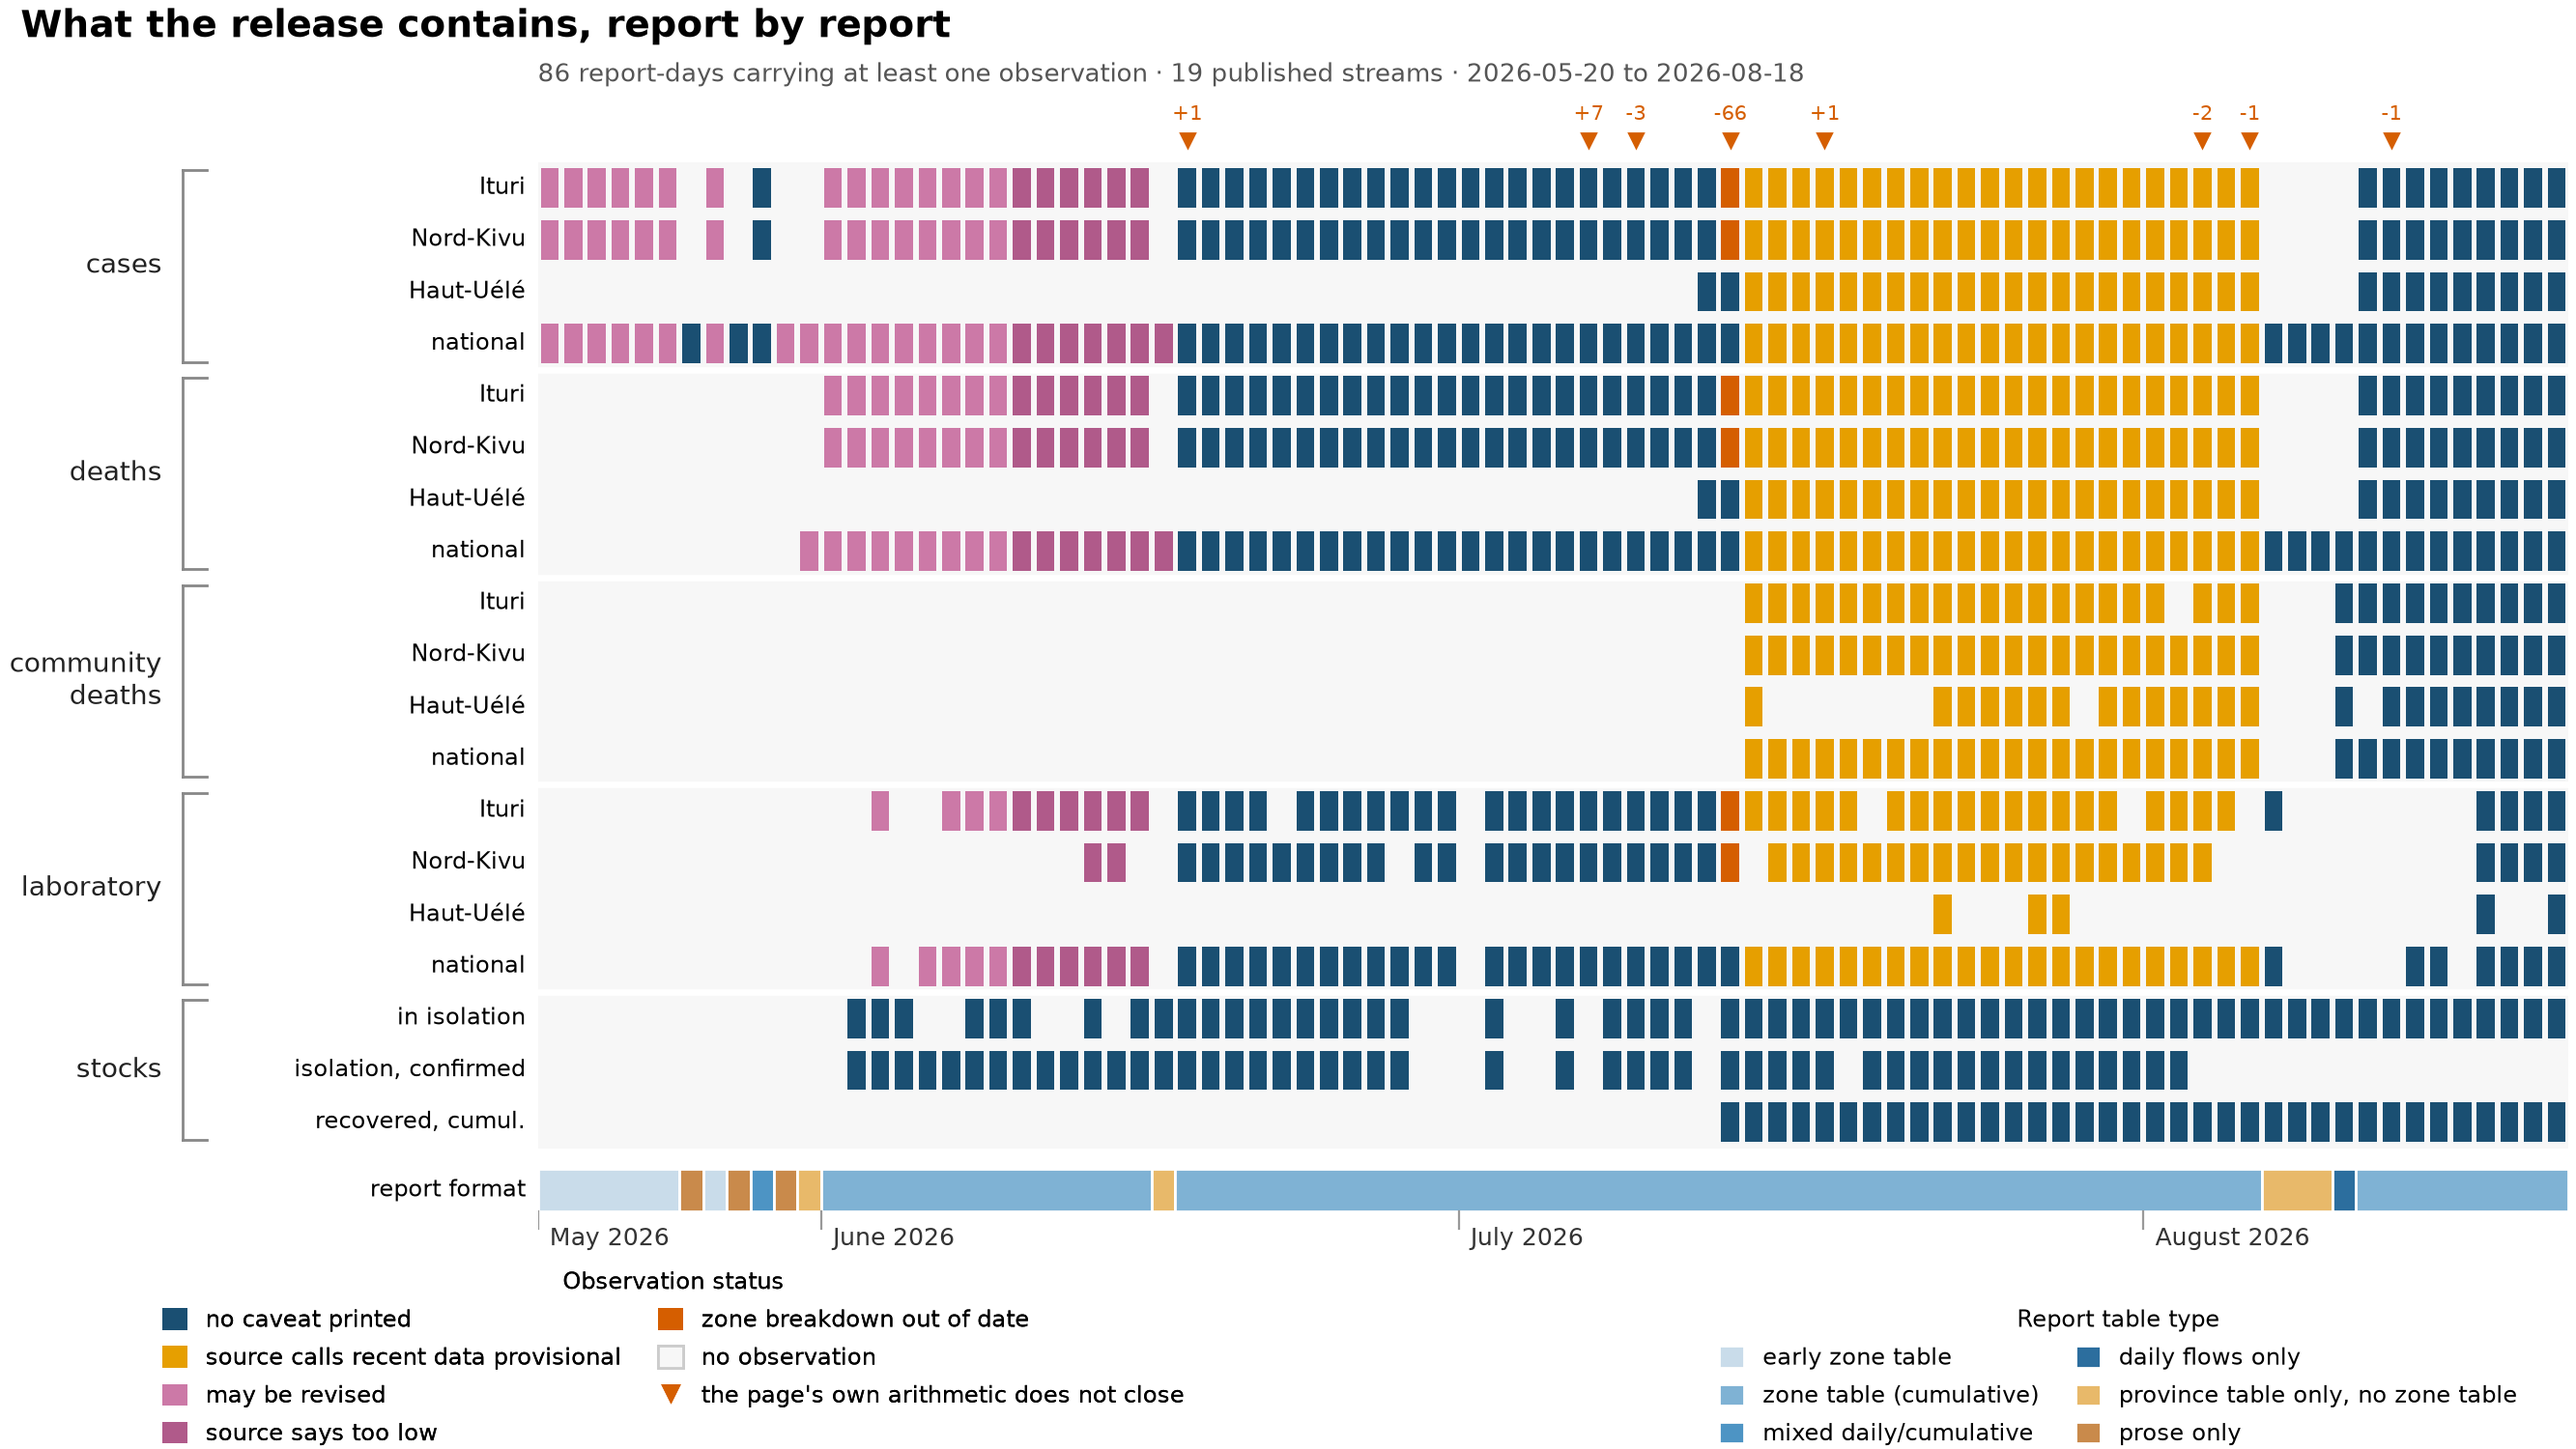
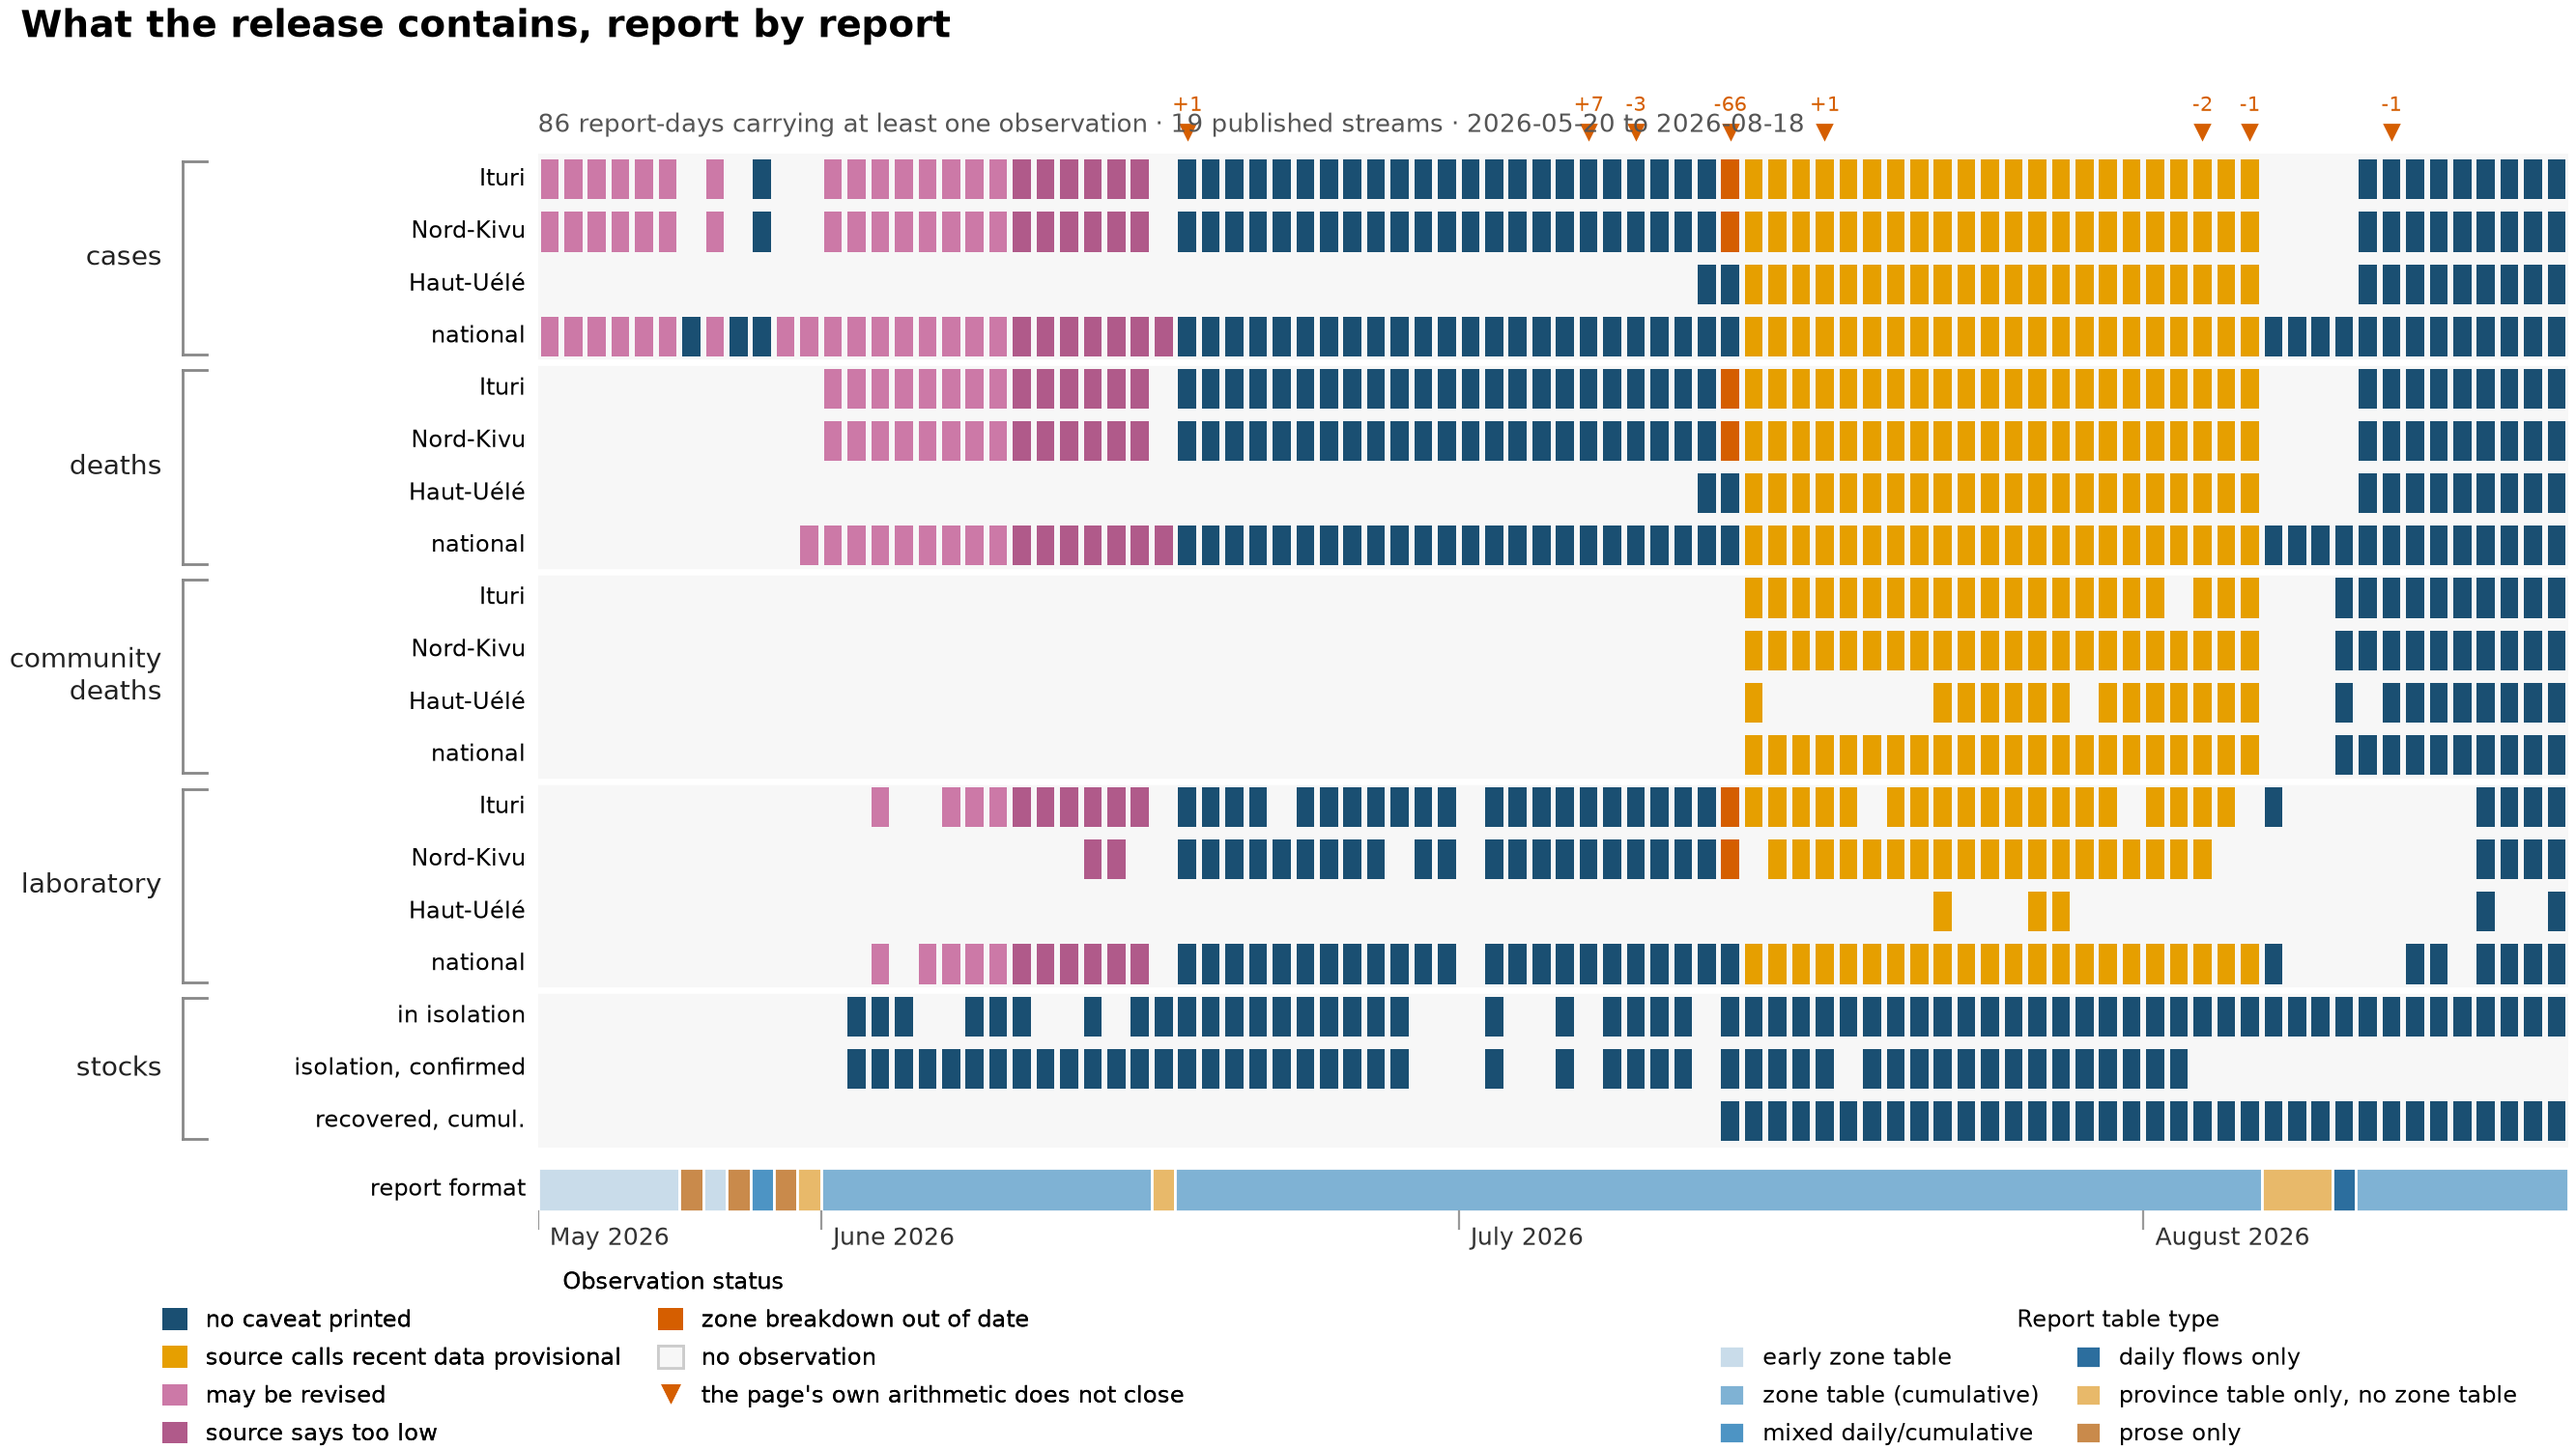
ascertainment: legend box moved out of the plot area into the header band
Placement and framing are independent in matplotlib; the earlier attempt lost
the border only because it also switched the frame off. The box is unchanged
-- translucent white, thin grey border -- and now sits in the empty right half
of the header band, so the plot area carries no legend at all.

Claude-Session: https://claude.ai/code/session_015tkmBJ2UNKTmshByKopqW2

diff --git a/scripts/plot_figures.py b/scripts/plot_figures.py
@@ -421,7 +421,7 @@ def draw_release_grid(inputs: dict[str, Path], out: Path) -> None:
     # constrained_layout does not reserve space for a figure legend, so the
     # band is carved out of the layout rect explicitly or the second row
     # falls off the page.
-    fig.get_layout_engine().set(rect=(0, 0.105, 1, 0.895))
+    fig.get_layout_engine().set(rect=(0, 0.105, 1, 0.872))
     leg1 = fig.legend(handles=handles, loc="lower left", ncol=2,
                       frameon=False, fontsize=8.5, handlelength=1.1,
                       handleheight=1.1, columnspacing=1.6, labelspacing=0.6,
@@ -453,7 +453,7 @@ def draw_release_grid(inputs: dict[str, Path], out: Path) -> None:
                  x=0.008, ha="left", fontsize=14, fontweight="bold")
     ax.set_title(f"{nx} report-days carrying at least one observation · "
                  f"{ny} published streams · {all_dates[0]} to {all_dates[-1]}",
-                 loc="left", fontsize=9.5, color="#555555", pad=30)
+                 loc="left", fontsize=9.5, color="#555555", pad=8)
     out.parent.mkdir(parents=True, exist_ok=True)
     fig.savefig(out, dpi=200)
     plt.close(fig)
@@ -586,12 +586,14 @@ def draw_ascertainment(inputs: dict[str, Path], out: Path) -> None:
     # ABOVE the axes, not inside them. The header band is empty to the right
     # of the subtitle, and a legend sitting in the plot area covers data --
     # here the August gap band and the clipped 22 July bar.
-    # Inside the axes, hard into the top-right corner -- borderaxespad is what
-    # pushes it there. A translucent white box with a thin grey border: over a
-    # bar an unbordered box reads as a hole punched in it.
-    leg = ax.legend(loc="upper right", fontsize=9.5, frameon=True,
-                    framealpha=0.9, facecolor="white", edgecolor="#8a8a8a",
-                    borderpad=0.6, borderaxespad=0.15)
+    # OUT of the plot area, into the empty right half of the header band --
+    # but keeping its box. Placement and framing are independent in
+    # matplotlib; an earlier attempt lost the border only because it also
+    # switched the frame off.
+    leg = ax.legend(loc="lower right", bbox_to_anchor=(1.0, 1.045),
+                    fontsize=9.5, frameon=True, framealpha=0.95,
+                    facecolor="white", edgecolor="#8a8a8a", borderpad=0.6,
+                    ncol=2, columnspacing=1.6, handlelength=1.3)
     leg.get_frame().set_linewidth(0.7)
     ax.grid(axis="y", **GRID)
 
